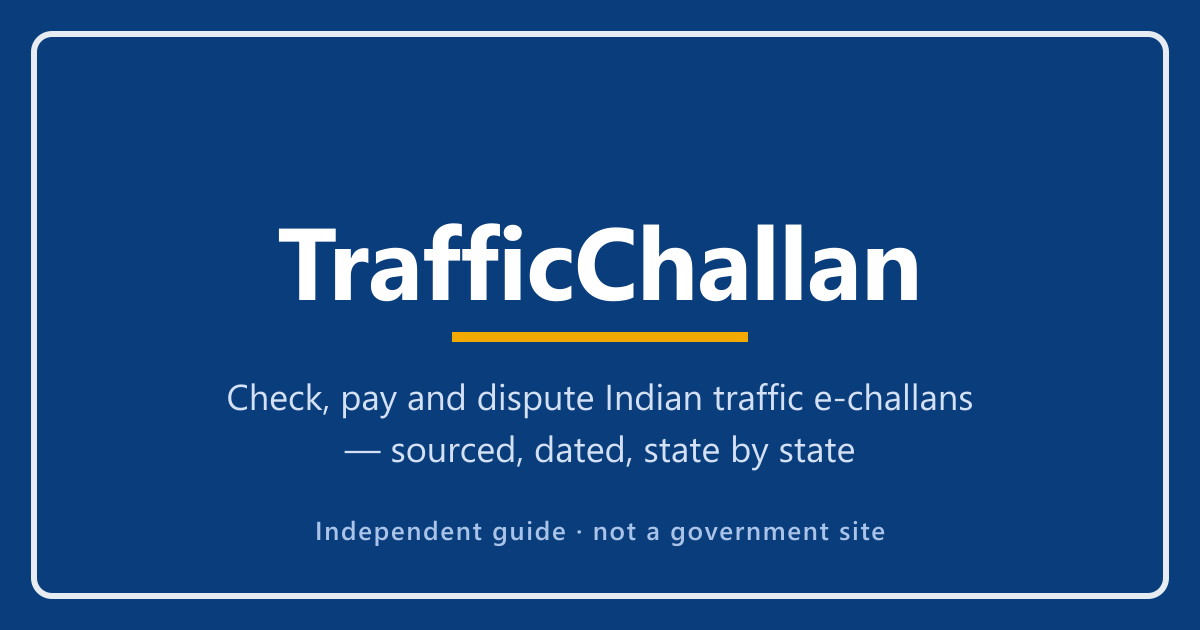
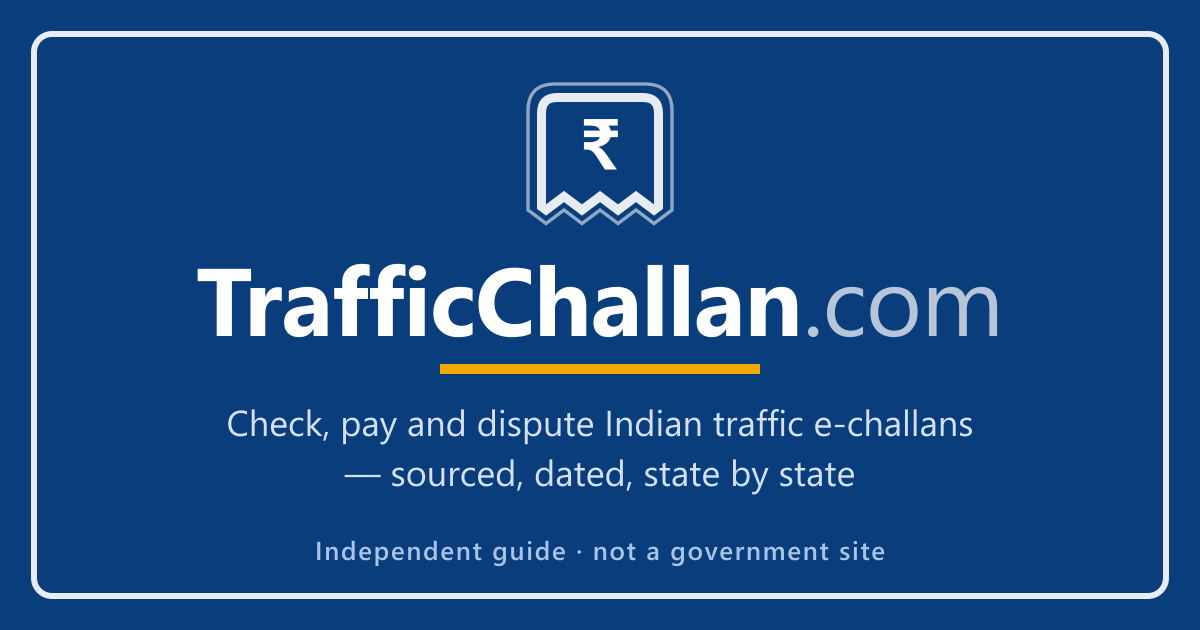
feat(brand): Sign-Slip mark + TrafficChallan.com wordmark; cap answer boards at the extractable answer
- New Sign-Slip mark: blue guide-sign board tearing into a receipt zigzag,
  inset white keyline tracing the tear, white centred rupee. Favicon master
  (32px, system-font rupee), header mark (26px inline SVG, rupee in Anek via
  inherit, subtle outer keyline so it survives the same-blue header band),
  OG card regenerated via scripts/make-og.ts with the mark and the
  TrafficChallan.com wordmark (.com at 70% white).
- Wordmark: header brand and footer colophon read TrafficChallan.com with
  .com full-size, weight 400, opacity .62; brand steps down at <=400px.
  Search aria-label and JSON-LD siteName stay 'TrafficChallan'.
- Answer boards capped at the extractable answer (~2 sentences / ~45 words):
  overflow moved verbatim to a paragraph directly below the board on every
  page and template; guide markdown split the same way. State template moves
  the payment-methods sentence off the board; offence template moves
  repeat-fine and licence-impact below. CONTENT_STANDARDS rule 3 updated.

Changed region(s): [[0.1542, 0.1206, 0.8325, 0.5429], [0.185, 0.573, 0.8325, 0.7841], [0.2467, 0.8143, 0.74, 0.9048]]

diff --git a/scripts/make-og.ts b/scripts/make-og.ts
@@ -1,19 +1,30 @@
 import sharp from 'sharp';
 
 /**
- * OG card in the highway-signage identity: blue guide-sign board, inset white
- * keyline, wordmark with an amber underline accent, tagline, and an explicit
- * "independent guide" line (anti-impersonation).
+ * OG card in the highway-signage identity: blue guide-sign board with the
+ * Sign-Slip mark (guide-sign board whose bottom edge tears into a receipt
+ * zigzag), the TrafficChallan.com wordmark (".com" at 70% white), tagline,
+ * and an explicit "independent guide" line (anti-impersonation).
+ *
+ * The mark's geometry is the 32×32 favicon master (public/favicon.svg),
+ * scaled up. The card ground is the same board blue as the mark, so the mark
+ * carries a soft white outer keyline — the same treatment the in-page header
+ * mark gets via CSS.
  */
 const svg = `<svg xmlns="http://www.w3.org/2000/svg" width="1200" height="630">
   <rect width="1200" height="630" fill="#0A3D7C"/>
   <rect x="34" y="34" width="1132" height="562" rx="18" fill="none" stroke="#FFFFFF" stroke-width="6" stroke-opacity="0.9"/>
+  <g transform="translate(528 84) scale(4.5)">
+    <path d="M6 0h20q6 0 6 6v22l-4 3-4-3-4 3-4-3-4 3-4-3-4 3-4-3V6q0-6 6-6Z" fill="#0A3D7C" stroke="#FFFFFF" stroke-opacity="0.55" stroke-width="0.75"/>
+    <path d="M6.5 3h19Q29 3 29 6.5v20.75l-1 .75-4-3-4 3-4-3-4 3-4-3-4 3-1-.75V6.5Q3 3 6.5 3Z" fill="none" stroke="#FFFFFF" stroke-width="2" stroke-opacity="0.9"/>
+    <text x="16" y="19" font-family="Segoe UI, Roboto, Arial, sans-serif" font-size="16" font-weight="700" fill="#FFFFFF" text-anchor="middle">₹</text>
+  </g>
   <g font-family="Segoe UI, Roboto, Arial, sans-serif" text-anchor="middle">
-    <text x="600" y="300" font-size="102" font-weight="700" letter-spacing="-1" fill="#FFFFFF">TrafficChallan</text>
-    <rect x="452" y="332" width="296" height="10" fill="#F2A900"/>
-    <text x="600" y="410" font-size="36" font-weight="400" fill="#D4E1F4">Check, pay and dispute Indian traffic e-challans</text>
-    <text x="600" y="462" font-size="36" font-weight="400" fill="#D4E1F4">— sourced, dated, state by state</text>
-    <text x="600" y="540" font-size="26" font-weight="600" letter-spacing="1.6" fill="#A9C4E8">Independent guide · not a government site</text>
+    <text x="600" y="336" font-size="96" font-weight="700" letter-spacing="-1" fill="#FFFFFF">TrafficChallan<tspan font-weight="400" fill-opacity="0.7">.com</tspan></text>
+    <rect x="440" y="364" width="320" height="10" fill="#F2A900"/>
+    <text x="600" y="436" font-size="36" font-weight="400" fill="#D4E1F4">Check, pay and dispute Indian traffic e-challans</text>
+    <text x="600" y="486" font-size="36" font-weight="400" fill="#D4E1F4">— sourced, dated, state by state</text>
+    <text x="600" y="560" font-size="26" font-weight="600" letter-spacing="1.6" fill="#A9C4E8">Independent guide · not a government site</text>
   </g>
 </svg>`;
 

diff --git a/src/styles/global.css b/src/styles/global.css
@@ -497,7 +497,7 @@ time,
 .brand {
   display: inline-flex;
   align-items: center;
-  gap: 0.45rem;
+  gap: 0.5rem;
   margin-right: auto;
   font-weight: 700;
   font-size: 1.25rem;
@@ -505,9 +505,34 @@ time,
   padding: 0.4rem 0;
   min-height: 44px;
 }
-.brand__chev {
+.brand__mark {
   flex: 0 0 auto;
-  color: var(--on-board);
+  /* the outer keyline stroke sits half outside the 32-unit viewBox */
+  overflow: visible;
+}
+/* The mark's board is the same blue as the header band it sits on — a subtle
+   outer keyline keeps the torn-slip silhouette readable there (and on the
+   dark header, where the band is a near-identical dark blue). */
+.brand__mark-board {
+  stroke: var(--keyline);
+  stroke-width: 1;
+}
+/* ".com" is part of the wordmark, not the name: full-size, regular weight,
+   dimmed. Reused verbatim in the footer colophon. */
+.brand__tld {
+  font-weight: 400;
+  opacity: 0.62;
+}
+@media (max-width: 400px) {
+  /* the wordmark grew by ".com" — step down a notch so it never crowds the
+     Search button on narrow phones */
+  .brand {
+    font-size: 1.125rem;
+  }
+  .brand__mark {
+    width: 24px;
+    height: 24px;
+  }
 }
 .site-nav {
   display: flex;
@@ -1596,7 +1621,7 @@ details p:last-child {
   .site-nav,
   #search-slot,
   .footer-nav,
-  .brand__chev,
+  .brand__mark,
   .action__chev,
   .share-strip,
   /* Reminder buttons print as huge expanded hrefs (the gcal URL especially). */

diff --git a/src/content/guides/how-to-check-e-challan.md b/src/content/guides/how-to-check-e-challan.md
@@ -68,7 +68,9 @@ faqs:
       so pick one route and keep the receipt. If you have already paid on
       vcourts.gov.in, do not pay again on the e-challan portal.
 ---
-<div class="answer-box">To check an e-challan, search your vehicle number, driving licence number or challan number on the government e-challan portal — <strong>echallan.parivahan.gov.in</strong> if your state is still on the older site (Delhi, Telangana, Uttar Pradesh, Andhra Pradesh, Madhya Pradesh), or the NextGen portal <strong>echallan.parivahan.nic.in</strong> for the 27 states and UTs migrated to it, including Karnataka, Maharashtra, Tamil Nadu, Gujarat and West Bengal. Several states also run their own portal that shows city-police challans the national site can miss, and a challan already sent to court has to be looked up separately on Virtual Courts at vcourts.gov.in. Checking is free everywhere — no official portal charges a fee just to show you a challan.</div>
+<div class="answer-box">To check an e-challan, search your vehicle number, driving licence number or challan number on the government e-challan portal — <strong>echallan.parivahan.gov.in</strong> if your state is still on the older site (Delhi, Telangana, Uttar Pradesh, Andhra Pradesh, Madhya Pradesh), or the NextGen portal <strong>echallan.parivahan.nic.in</strong> for the 27 states and UTs migrated to it, including Karnataka, Maharashtra, Tamil Nadu, Gujarat and West Bengal.</div>
+
+Several states also run their own portal that shows city-police challans the national site can miss, and a challan already sent to court has to be looked up separately on Virtual Courts at vcourts.gov.in. Checking is free everywhere — no official portal charges a fee just to show you a challan.
 
 ## Which portal shows my challan — parivahan.gov.in or NextGen?
 

diff --git a/src/content/guides/wrong-e-challan-dispute.md b/src/content/guides/wrong-e-challan-dispute.md
@@ -79,7 +79,9 @@ faqs:
       well, such as Maharashtra's e-challan helpdesk on 844 844 8960 and the
       Hyderabad Traffic Cell on 040-27852721 or 040-27852772.
 ---
-<div class="answer-box">A wrong challan complaint goes through the e-challan grievance ticket system, not through email or a police counter. If your state is still on the legacy national portal, file it at echallan.parivahan.gov.in/gsticket/; if your state has migrated to NextGen, use the "Raise Grievance" tile at echallan.parivahan.nic.in. Either route starts from the challan number and verifies your identity by OTP before the form opens, then asks you to pick a fixed issue category, describe the problem in 500 characters and attach evidence. Neither portal publishes a rule on whether an open ticket survives a referral to the Virtual Court, so file early rather than near the 90-day mark.</div>
+<div class="answer-box">A wrong challan complaint goes through the e-challan grievance ticket system, not through email or a police counter. If your state is still on the legacy national portal, file it at echallan.parivahan.gov.in/gsticket/; if your state has migrated to NextGen, use the "Raise Grievance" tile at echallan.parivahan.nic.in.</div>
+
+Either route starts from the challan number and verifies your identity by OTP before the form opens, then asks you to pick a fixed issue category, describe the problem in 500 characters and attach evidence. Neither portal publishes a rule on whether an open ticket survives a referral to the Virtual Court, so file early rather than near the 90-day mark.
 
 ## How do I file a traffic challan complaint online?
 

diff --git a/src/content/guides/court-challan-vs-on-spot-challan.md b/src/content/guides/court-challan-vs-on-spot-challan.md
@@ -72,7 +72,9 @@ faqs:
       disqualification or revocation proceedings under Section 19, so a licence
       action can run alongside the case.
 ---
-<div class="answer-box">An on-spot challan is issued for a <strong>compoundable</strong> offence: Section 200 of the Motor Vehicles Act lets you settle it by paying a fixed compounding amount — to the officer, or online — and the prosecution ends there. A court challan is issued for an offence Section 200 does not permit to be compounded, chiefly drunken driving under Section 185 and every limb of dangerous driving under Section 184 except handheld phone use, so there is no amount to pay anywhere and a magistrate decides the penalty. A compoundable challan can also turn into a court case simply by going unpaid.</div>
+<div class="answer-box">An on-spot challan is issued for a <strong>compoundable</strong> offence: Section 200 of the Motor Vehicles Act lets you settle it by paying a fixed compounding amount — to the officer, or online — and the prosecution ends there.</div>
+
+A court challan is issued for an offence Section 200 does not permit to be compounded, chiefly drunken driving under Section 185 and every limb of dangerous driving under Section 184 except handheld phone use, so there is no amount to pay anywhere and a magistrate decides the penalty. A compoundable challan can also turn into a court case simply by going unpaid.
 
 ## What actually separates a court challan from an on-spot challan?
 

diff --git a/src/content/guides/how-to-pay-e-challan-online.md b/src/content/guides/how-to-pay-e-challan-online.md
@@ -70,7 +70,9 @@ faqs:
       practice that means you need the owner's or licence-holder's credentials
       to hand, whoever is sitting at the keyboard.
 ---
-<div class="answer-box">Pay an e-challan on one of the two national MoRTH portals: <strong>echallan.parivahan.gov.in</strong> (Delhi, Telangana, UP, AP, MP and others) or the NextGen portal <strong>echallan.parivahan.nic.in</strong>, which serves 27 states and UTs including Maharashtra, Karnataka, Tamil Nadu, Gujarat and West Bengal. Search by challan, vehicle or DL number, verify the OTP, pay by UPI, card or net banking, and download the receipt. A challan already forwarded to a Virtual Court can also be paid at vcourts.gov.in — but pay it in one place only, because neither system stops you paying twice.</div>
+<div class="answer-box">Pay an e-challan on one of the two national MoRTH portals: <strong>echallan.parivahan.gov.in</strong> (Delhi, Telangana, UP, AP, MP and others) or the NextGen portal <strong>echallan.parivahan.nic.in</strong>, which serves 27 states and UTs including Maharashtra, Karnataka, Tamil Nadu, Gujarat and West Bengal.</div>
+
+Search by challan, vehicle or DL number, verify the OTP, pay by UPI, card or net banking, and download the receipt. A challan already forwarded to a Virtual Court can also be paid at vcourts.gov.in — but pay it in one place only, because neither system stops you paying twice.
 
 ## Which website should I actually use to pay my challan?
 

diff --git a/src/content/guides/unpaid-e-challan-consequences.md b/src/content/guides/unpaid-e-challan-consequences.md
@@ -78,7 +78,9 @@ faqs:
       Virtual Court entry, such as Telangana and Andhra Pradesh, the case is
       before the ordinary jurisdictional magistrate from the start.
 ---
-<div class="answer-box">An unpaid e-challan does not quietly expire. NIC, which runs the national eChallan system, states that a challan unpaid for 90 days is automatically forwarded to a Virtual Court under Rule 167(5) of the Central Motor Vehicles Rules, and that under Rule 167(7) the licensing and registering authorities then stop processing applications relating to that driving licence or vehicle registration. Once it reaches a court it is a case, not a bill: you plead guilty and pay online, or you contest it and appear before a magistrate.</div>
+<div class="answer-box">An unpaid e-challan does not quietly expire. NIC, which runs the national eChallan system, states that a challan unpaid for 90 days is automatically forwarded to a Virtual Court under Rule 167(5) of the Central Motor Vehicles Rules, and that under Rule 167(7) the licensing and registering authorities then stop processing applications relating to that driving licence or vehicle registration.</div>
+
+Once it reaches a court it is a case, not a bill: you plead guilty and pay online, or you contest it and appear before a magistrate.
 
 ## How long before an unpaid challan becomes a traffic challan court case?
 

diff --git a/src/content/guides/e-challan-lok-adalat.md b/src/content/guides/e-challan-lok-adalat.md
@@ -56,7 +56,9 @@ faqs:
       right to litigate." The finality described above attaches only to an award
       actually made.
 ---
-<div class="answer-box">A National Lok Adalat is a statutory settlement sitting where a bench disposes of pending cases by compromise — including traffic challans already before a court. Four are scheduled in 2026, all on a second Saturday: 14 March, 9 May, 12 September and 12 December. There is no fixed nationwide discount: the settlement figure is decided at the sitting itself, and once the bench passes an award it is deemed a decree of a civil court, final and binding, with no appeal.</div>
+<div class="answer-box">A National Lok Adalat is a statutory settlement sitting where a bench disposes of pending cases by compromise — including traffic challans already before a court. Four are scheduled in 2026, all on a second Saturday: 14 March, 9 May, 12 September and 12 December.</div>
+
+There is no fixed nationwide discount: the settlement figure is decided at the sitting itself, and once the bench passes an award it is deemed a decree of a civil court, final and binding, with no appeal.
 
 ## What is a Lok Adalat, and why do traffic challans end up there?
 

diff --git a/CONTENT_STANDARDS.md b/CONTENT_STANDARDS.md
@@ -6,7 +6,9 @@
    other challan sites are NEVER sources for facts.
 2. VERIFY, THEN WRITE: Open the source and confirm the fact TODAY before writing it.
    Set last_verified to today's date only if you actually verified today.
-3. ANSWER FIRST: Every page opens with a 2–3 sentence direct answer to its target_keyword.
+3. ANSWER FIRST: Every page opens with a direct answer to its target_keyword. The answer
+   board (blue board / answer-box) carries at most two sentences (~45 words) — the direct
+   answer only; supporting detail goes in the first paragraph immediately below the board.
 4. NO FILLER: No "in today's fast-paced world" openers, no padded intros, no repeated
    sections, no keyword stuffing. If a section adds no information, delete it.
 5. ONE INTENT, ONE PAGE: Before creating a page, check the target_keyword does not overlap
